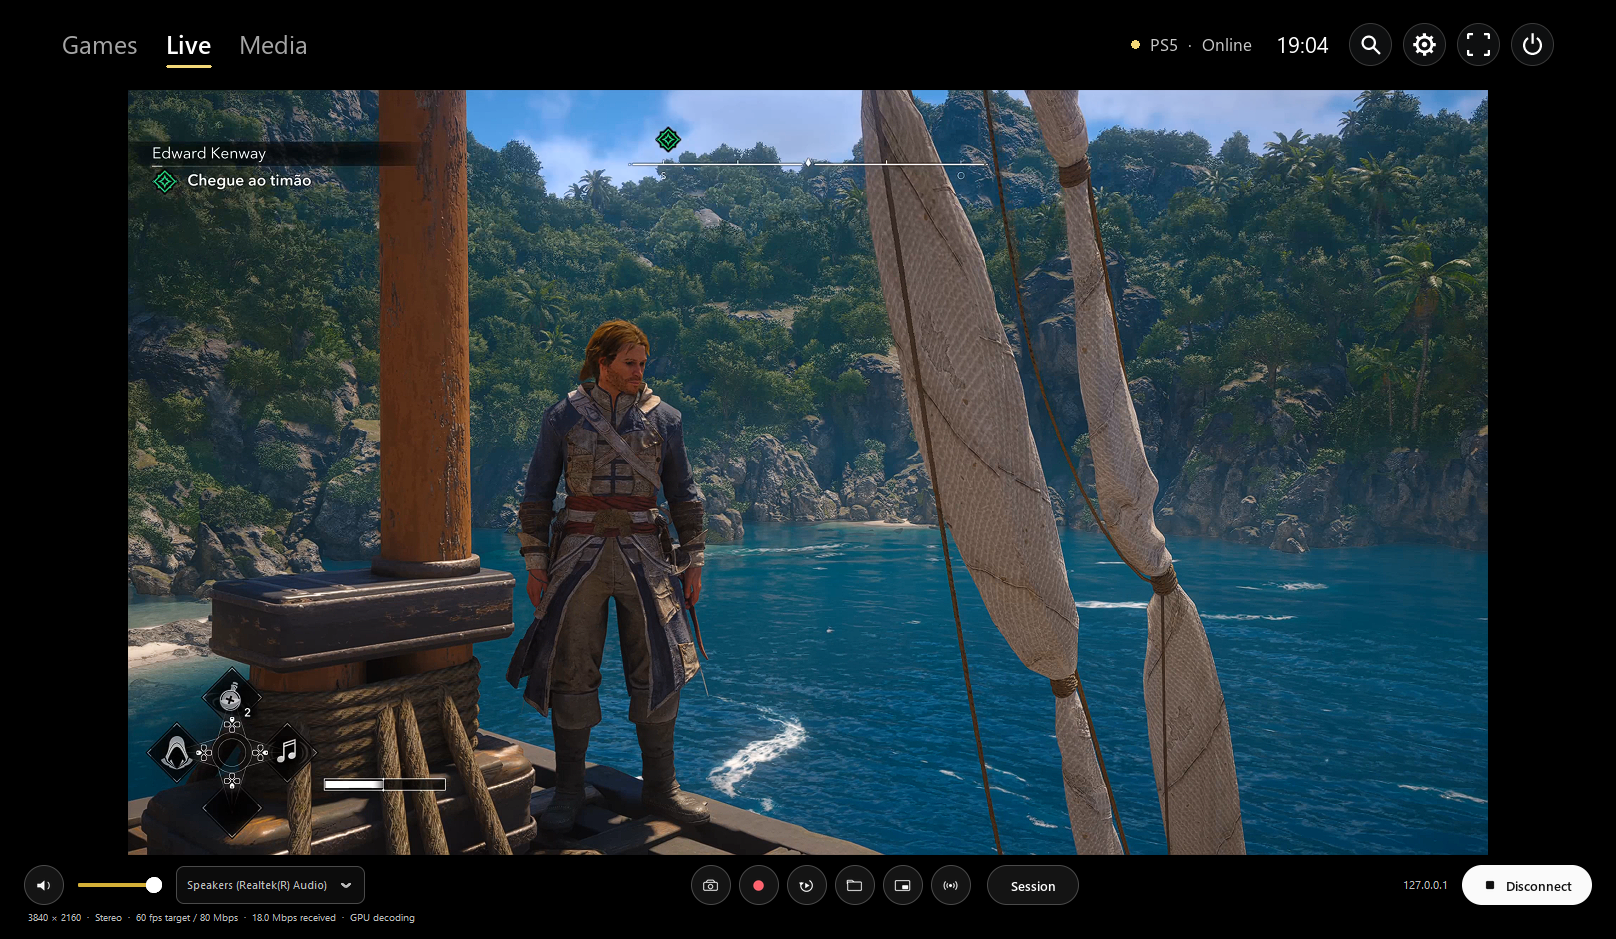
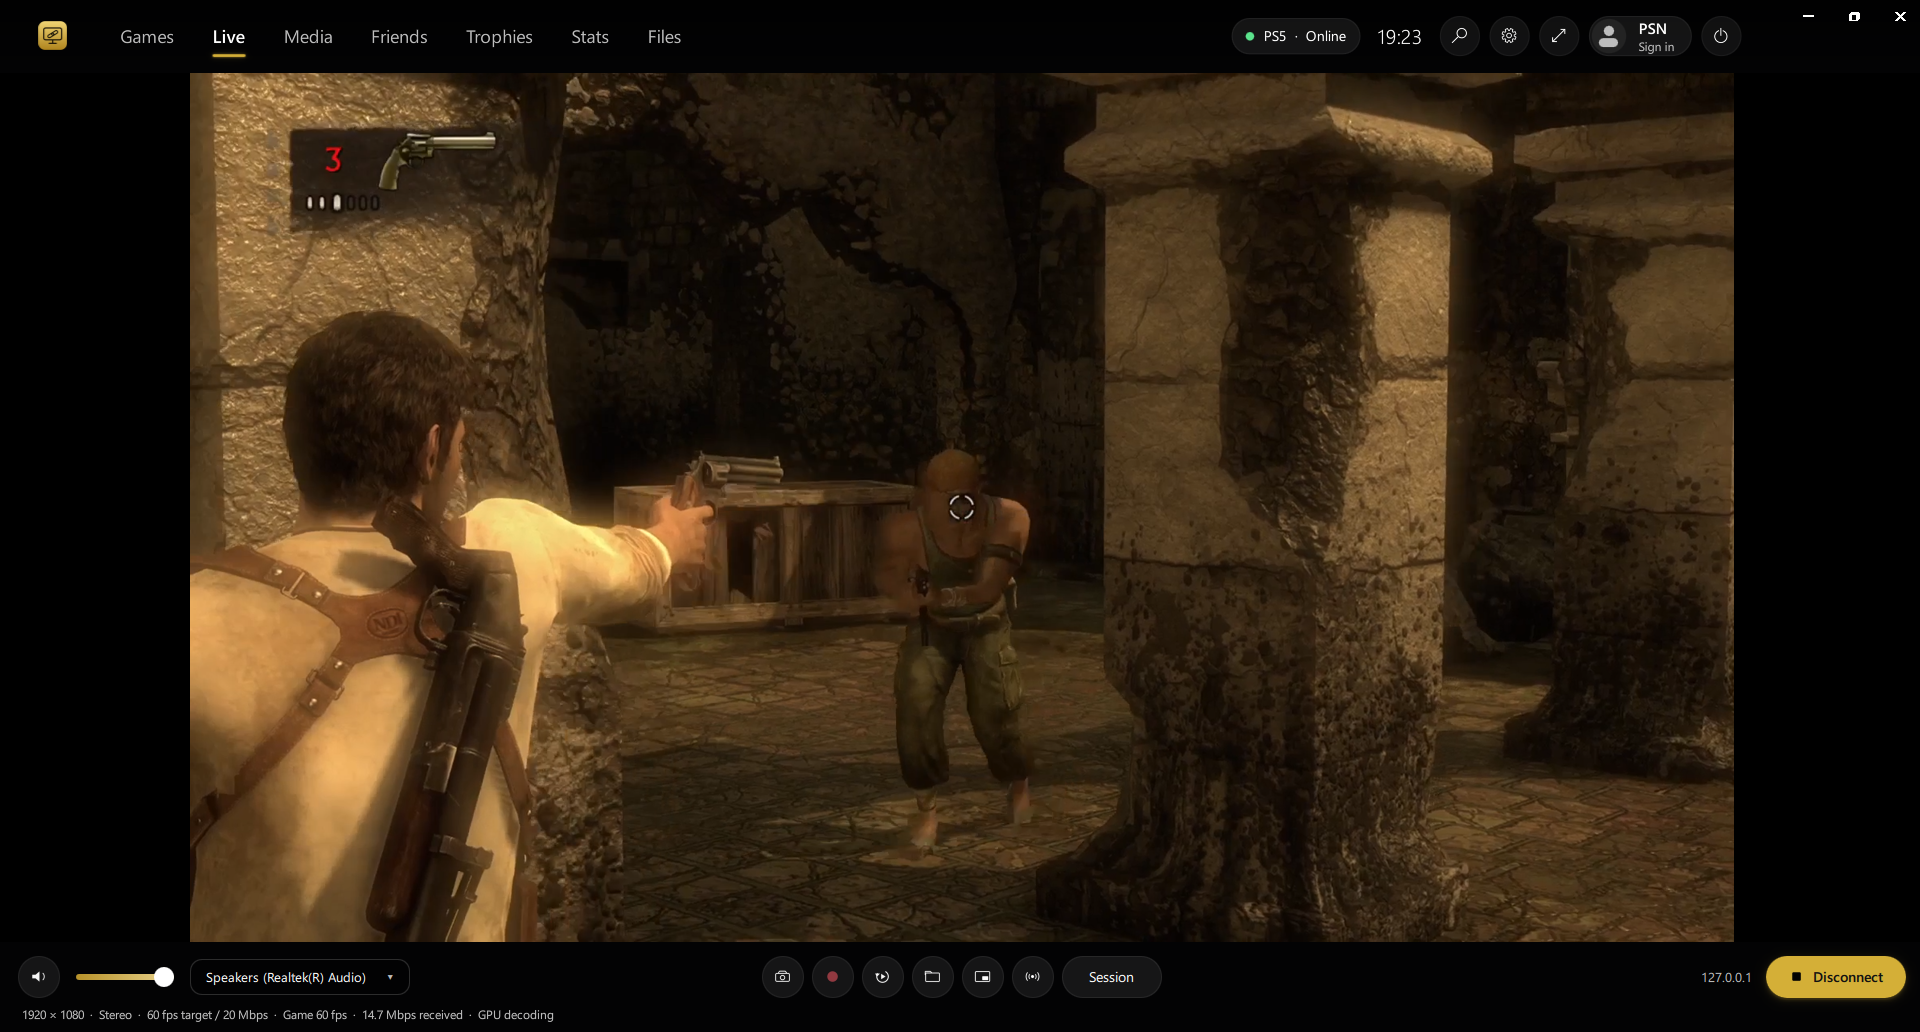
README: new Settings, Live, Media and Streaming screenshots
The four pictures now show the 1.7.0 window: Settings with the
Console and Streaming sections, the Live page with a PS5 recording
played back on the PC, and Media with three recordings copied from
the console. The Settings picture shows an example IP address.

diff --git a/README.md b/README.md
@@ -19,7 +19,7 @@ No HDMI capture card. No official Remote Play client or PSN Remote Play pairing.
 
 <p align="center"><img src="docs/images/playbridge-games.jpg" alt="PlayBridge Games page with a row of game and homebrew tiles, the selected app's art filling the window, its title, a Play button and cards for play time, size, a 4K 60 fps stream and console temperature, and the signed-in PSN player in the top bar" width="100%"></p>
 
-> Screenshots show the real application. The Games page above shows a real PS5 library: covers and music come from your own console when you connect, and none are included in the download. The Friends page further down shows a real PSN conversation, with the friend's name, their photo and a real name blurred. The game pictures are PS5 captures saved with PlayBridge; the one on the Live page was played back to the app on the PC to take the screenshot. PlayBridge is in English; the console's own language remains whatever you selected on the PS5.
+> Screenshots show the real application. The Games page above shows a real PS5 library: covers and music come from your own console when you connect, and none are included in the download. The Friends page further down shows a real PSN conversation, with the friend's name, their photo and a real name blurred. The game pictures are PS5 recordings copied from the console with **From your PS5**; the one on the Live page was played back to the app on the PC to take the screenshot, and the Settings page shows an example IP address. PlayBridge is in English; the console's own language remains whatever you selected on the PS5.
 
 ## New in v1.7.0
 
@@ -101,7 +101,7 @@ PlayBridge uploads its embedded ELF and connects on port **9076**. The mark next
 
 From then on, the usual workflow is simply **open Payload Manager → open PlayBridge**. It connects at startup using your saved settings.
 
-<p align="center"><img src="docs/images/playbridge-settings.png" alt="PlayBridge Settings page, Console section: frosted panels over a blue and violet picture with the IP address, saved consoles, Find console, Send a payload, favourites and connection switches" width="720"></p>
+<p align="center"><img src="docs/images/playbridge-settings.png" alt="PlayBridge Settings page, Console section: the IP address with Save, saved consoles and Find console, a favourite, the connection switches, and the Controller, Controller profile and Mouse aim panels" width="720"></p>
 
 ### 2. Your games
 
@@ -149,7 +149,7 @@ A 1080p PC monitor shows a 4K stream scaled down to its own pixels. Screenshots 
 
 ### 5. While you play
 
-<p align="center"><img src="docs/images/playbridge-live.png" alt="PlayBridge Live page showing a 3840 by 2160 PS5 game capture, with the capture, small window and Go live buttons and the audio controls below it" width="100%"></p>
+<p align="center"><img src="docs/images/playbridge-live.png" alt="PlayBridge Live page showing a 1920 by 1080 PS5 game recording, with the volume and sound output, the capture, record, instant replay, folder, small window and Go live buttons, Session and Disconnect below it" width="100%"></p>
 
 | Control | Action |
 |---|---|
@@ -173,7 +173,7 @@ Captures are saved in **Videos/PlayBridge**, in the Screenshots and Recordings f
 
 **Instant replay** is set in **Settings → Captures**: Off, the last 30 seconds, 60 seconds or 2 minutes. It keeps the stream as it arrives, without re-encoding, in this PC's memory up to 1 GB, and nothing changes on the PS5.
 
-<p align="center"><img src="docs/images/playbridge-media.png" alt="PlayBridge Media page with three PS5 game screenshots as thumbnails, the All, Photos and Videos filters, and the From your PS5 and Open folder buttons" width="720"></p>
+<p align="center"><img src="docs/images/playbridge-media.png" alt="PlayBridge Media page with three PS5 game recordings as thumbnails, each with Play recording and Edit, the All, Photos and Videos filters, and the From your PS5 and Open folder buttons" width="720"></p>
 
 **From your PS5**, at the top of **Media**, lists the screenshots and clips the console saved itself, while a session runs. **Copy new** copies the ones not yet on your PC, and **Copy selected** the ones you tick. Copies go to your capture folder and appear with your other captures. PlayBridge reads only the console's capture folders.
 
@@ -221,7 +221,7 @@ In **Settings → Streaming**, choose **Twitch**, **YouTube**, **TikTok**, **Oth
 
 PlayBridge sends on the H.264 video and AAC sound the PS5 already made, without encoding them again, so it costs the PC almost nothing, and recording and instant replay keep working while you are live. The broadcast uses your quality profile: Twitch recommends at most 6 Mbit/s, so **Data saver** suits it best. **OBS on this PC** receives the stream on UDP port 9100 of this PC.
 
-<p align="center"><img src="docs/images/playbridge-streaming.png" alt="PlayBridge Settings page, Streaming section: the Go live panel with the service menu set to Twitch, the stream key field and the Go live button, and a panel explaining how it works" width="720"></p>
+<p align="center"><img src="docs/images/playbridge-streaming.png" alt="PlayBridge Settings page, Streaming section: the Go live panel with the service menu set to Twitch, the stream key field, the switch for the overlay in the stream and the Go live button, and a panel explaining how it works" width="720"></p>
 
 ### Send a payload
 
